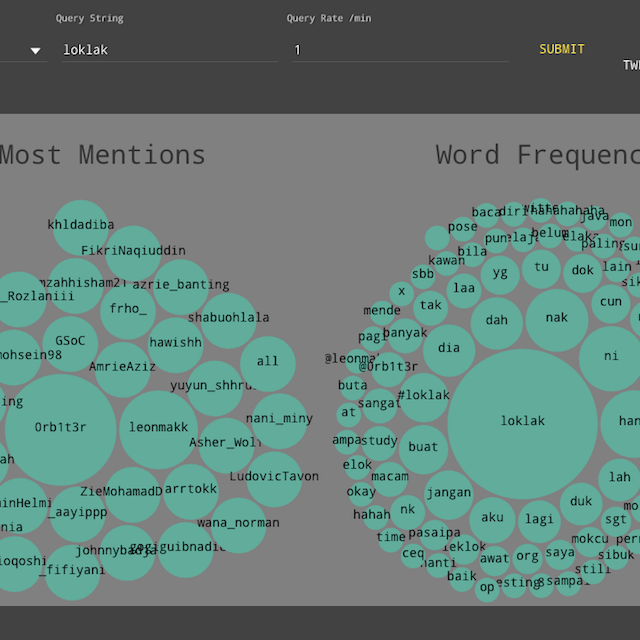
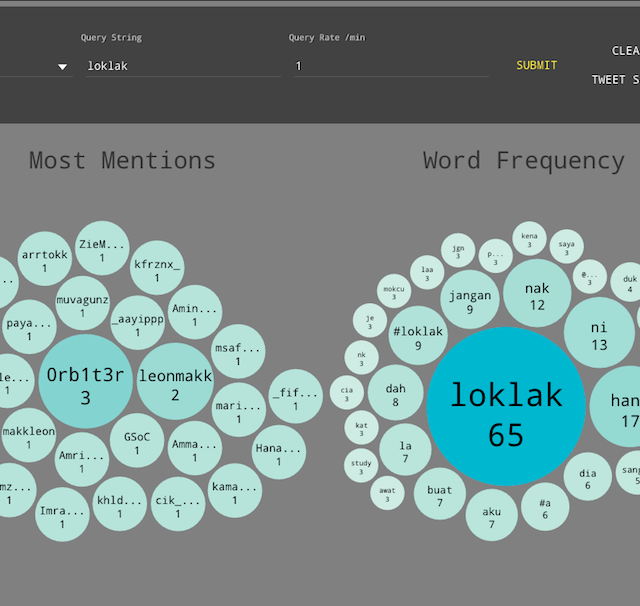
Added color & zooming to fit text for bubble charts (#450)

diff --git a/html/apps/bubblecharts/charts/bubbleCloud.js b/html/apps/bubblecharts/charts/bubbleCloud.js
@@ -17,13 +17,17 @@ angular.module('myApp')
 .directive('bubbleCloud', [ 
 
   function () {
+      
+    var diameter = 500,
+    length = 100,
+    color = d3.scale.linear().domain([1,length])
+    .interpolate(d3.interpolateHcl)
+    .range([d3.rgb("#FFFFFF"), d3.rgb('#17becf')]);
+
 
     var link = function ($scope, $el, $attrs) {
         
-        var diameter = 500;
-
         var id = '#bubbleCloud_'+$scope.$id;
-
         
         var svg = d3.select($el[0]).append('svg')
             .attr('width', diameter)
@@ -40,10 +44,41 @@ angular.module('myApp')
             .sort(function(a, b) { // biggest in the middle
                 return -(a.value - b.value);
             }) 
-            .padding(3);
+            .padding(5);
         
         // remember to set to true to watch values, if not $watch will not run as reference same
         $scope.$watch('data', update, true);
+        
+        
+        // clip text while if zoom
+        function clipText (d, t, scale) {
+            if (d.r < 20/scale) {
+                return "";
+            }
+            console.log(scale)
+            var name = t.substring(0, d.r/scale);
+            if (name.length < t.length) {
+                name = name.substring (0, name.length - Math.min(4, name.length)) + "...";
+            }
+            return name;
+        }
+        
+        // Setup zooming
+        function zoomed() {
+        var scale=d3.event.scale;
+        var fontsize = 10;
+        console.log('fontsize/scale')
+        console.log(fontsize/scale)
+          chart.attr("transform", "translate(" + d3.event.translate + ")scale(" + d3.event.scale + ")");
+          chart.selectAll('.nodeTextToClip')
+          .style('font-size', function(d){ return d.r/scale/2.4})
+          .text(function(d){return clipText(d, d.name,fontsize/scale/2.5 );})
+        }
+
+        var zoom = d3.behavior.zoom()
+        .scaleExtent([-10, 50])
+        .on("zoom", zoomed);
+        zoom(svg);
         
         function update(mentionFreq) {
             // console.log("updating");
@@ -87,9 +122,9 @@ angular.module('myApp')
             // filter out the outer bubble for pack layout
             // console.log(nodes);
             
+            // input data
             var vis = chart.selectAll('.bubble')
             .data(nodes);
-            
             // console.log(vis);
             
             // add attr to each entered group consisting of <circle> and <text>
@@ -99,13 +134,31 @@ angular.module('myApp')
             enter.append('circle')
             .attr('r', function(d) { return d.r; })
             .attr('class', function(d) { return d.className; })
+            .attr('fill', function(d){                 
+                return color(d.r+10); })
             
-            enter.append("text")
+            // Add bubble text
+            var text = enter.append("text")
             .attr("dy", ".1em")
             .style("text-anchor", "middle")
-            .text(function (d) { return d.name; });
-
-            // transition the selected groups
+            
+            text.append("tspan")
+            .attr("class", "nodeTextToClip")
+            .attr("x", "0")
+            .attr("dy", "0")
+            .style("font-size", function(d){ return d.r/2.5 ;})
+            .text(function(d) { return clipText(d, d.name, 4); });
+            
+            text.append("tspan")
+            .attr("x", "0")
+            .attr("dy", function(d){return d.r/2})
+            .style("font-weight", "100")
+            .style("font-size", function(d){ return d.r/2.5 ;})
+            .text(function(d) {
+                return d.value;
+            });
+            
+            // Transition the selected groups
             vis.transition().duration(1000)
             .attr("transform", function (d) { 
                 return "translate(" + d.x + "," + d.y + ")";
@@ -120,7 +173,7 @@ angular.module('myApp')
         // }
         
         // $scope.$on('windowResize',resize);
-
+        
     };
     return {
       template:'<div layout="column"><h2 style="text-align:center">{{title}}</h2><div id="bubbleCloud_{{$id}}"</div></div>',

diff --git a/html/apps/bubblecharts/index.html b/html/apps/bubblecharts/index.html
@@ -102,7 +102,7 @@
               </md-content>
               <div ng-controller='bubbleCloudCtrl' layout="row" layout-align="center center">
                   <bubble-cloud data="$storage.mentionFreq" min ="1" title="Most Mentions"></bubble-cloud>
-                  <bubble-cloud data="$storage.wordFreq" min="2" title="Word Frequency"></bubble-cloud>     
+                  <bubble-cloud data="$storage.wordFreq" min="3" title="Word Frequency"></bubble-cloud>     
               </div>
           </form>
           

diff --git a/html/apps/bubblecharts/css/style.css b/html/apps/bubblecharts/css/style.css
@@ -170,7 +170,3 @@ md-toolbar button.md-button.md-icon-button:first-child md-icon {
   visibility: visible;
   opacity: 1;
 }
-.bubbles { 
-  fill: #45B29D; 
-  background: #45B29D;
-}
